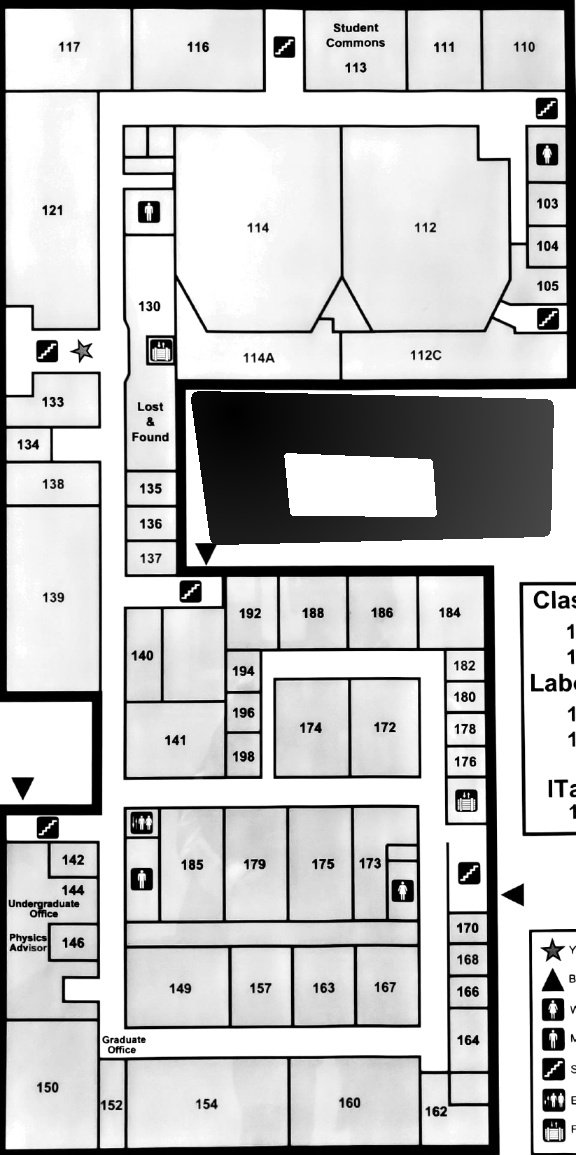
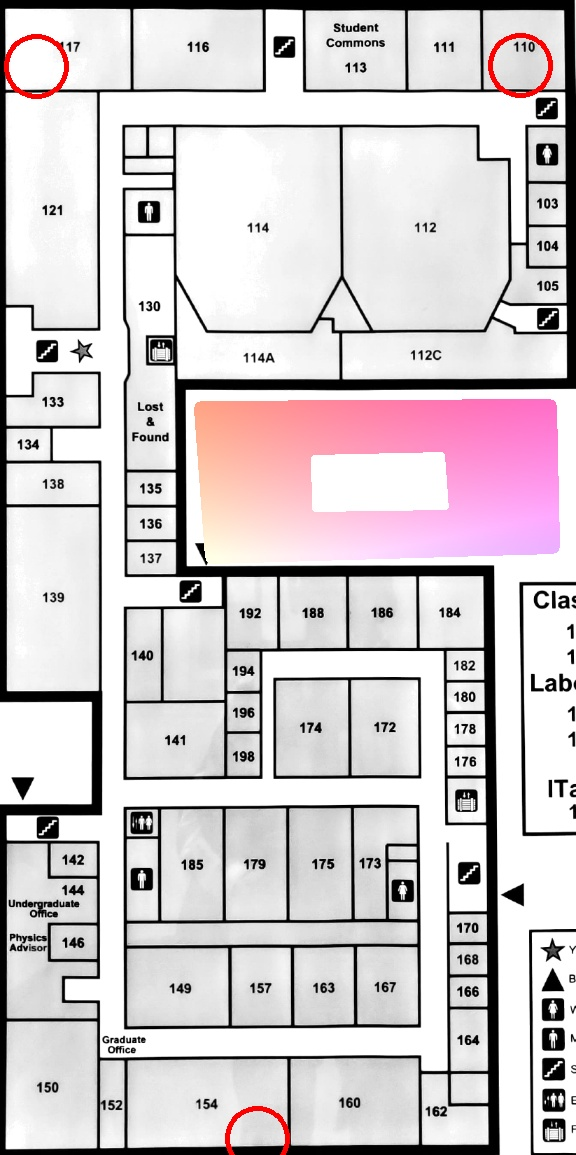
Update

diff --git a/distanceAlgorithm.py b/distanceAlgorithm.py
@@ -16,23 +16,34 @@ class distanceAlgorithm:
         self.fingerprintDictionary = {}
         self.trylist = []
         self.img = cv2.imread(self.input_image,0)
+        self.img = cv2.cvtColor(self.img,cv2.COLOR_GRAY2RGB)
         self.img = cv2.resize(self.img,(int(self.img.shape[1]*self.scale_factor),int(self.img.shape[0]*self.scale_factor)))
 
 
     def getFingerprintDone(self):
         self.getFingerprints()
+        self.drawAPs()
         self.saveOutput()
         return self.fingerprintDictionary
 
+    def drawAPs(self):
+        radius = 30
+        color = (0, 0, 255) 
+        thickness = 4
+        cv2.circle(self.img,self.accessPointOne , radius, color, thickness) 
+        cv2.circle(self.img,self.accessPointTwo , radius, color, thickness) 
+        cv2.circle(self.img,self.accessPointThree , radius, color, thickness) 
+        
 
     def getFingerprints(self):
 
         for i in range(len(self.legalPoints)):
             t = self.calculateDistance(self.legalPoints[i])
             self.fingerprintDictionary[t] = self.legalPoints[i]
-            d1 = (t[0]/1200)* 255 
-            d2 = (t[1]/1200)* 255 
-            d3 = (t[2]/1200)* 255 
+            maxItem = max(t)
+            d1 = (t[0]/maxItem)* 255 
+            d2 = (t[1]/maxItem)* 255 
+            d3 = (t[2]/maxItem)* 255 
             cv2.circle(self.img,(self.legalPoints[i][0],self.legalPoints[i][1]),2,(d1,d2,d3),2 )
         
     def saveOutput(self):
@@ -41,6 +52,6 @@ class distanceAlgorithm:
     def calculateDistance(self, point):
         distance_apOne = distance.euclidean(self.accessPointOne,point)
         distance_apTwo = distance.euclidean(self.accessPointTwo,point)
-        distance_apThree = distance.euclidean(self.accessPointOne,point)
+        distance_apThree = distance.euclidean(self.accessPointThree,point)
         return (distance_apOne,distance_apTwo,distance_apThree)
 

diff --git a/mainRunner.py b/mainRunner.py
@@ -28,6 +28,7 @@ class mainRunner:
         levelOne = getAPLocations(self.image, self.levelOneOutputAddress, self.scale_factor)
         self.apLocations = levelOne.getAPDone()
         levelOne.showOutput()
+        print("Level One Done")
 
     def levelTwo(self):
         levelTwo = mapGenerator(self.image,self.levelTwoOutputAddress,self.scale_factor)
@@ -37,6 +38,7 @@ class mainRunner:
     def levelThree(self):
         levelThree = distanceAlgorithm(self.apLocations,self.legalPoints, self.image, self.levelThreeOutputAddress,self.scale_factor)
         self.fingerprintDict = levelThree.getFingerprintDone()
+        print("Level Three Done")
 
     def levelFour(self):
         levelFour = mapParameters(self.image, self.levelFourOutputAddress,self.scale_factor)

diff --git a/mapGenerator.py b/mapGenerator.py
@@ -31,9 +31,8 @@ class mapGenerator:
 
         print("You entered the contours a total of : " + str(len(self.masterArray)) + " times" )
         finalLegalPoints = self.masterArray[0]
-        print("d")
+
         for i in range(len(self.masterArray) -1):
-            print("c")
             finalLegalPoints = [x for x in finalLegalPoints if x not in self.masterArray[i+1]]
         
         return finalLegalPoints

diff --git a/getAPLocations.py b/getAPLocations.py
@@ -70,7 +70,7 @@ class getAPLocations:
         output = {}
 
         for i in range(3):
-            output[self.labels[i]] = [self.path_coordinates_X[i], self.path_coordinates_Y[i]]
+            output[self.labels[i]] = (self.path_coordinates_X[i], self.path_coordinates_Y[i])
 
         return output
 
